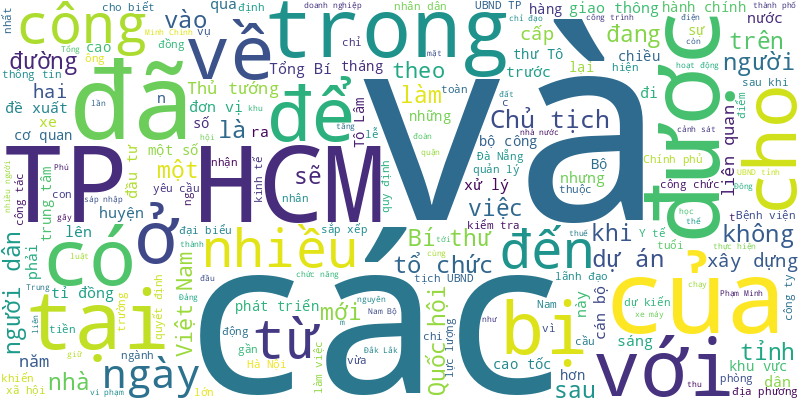
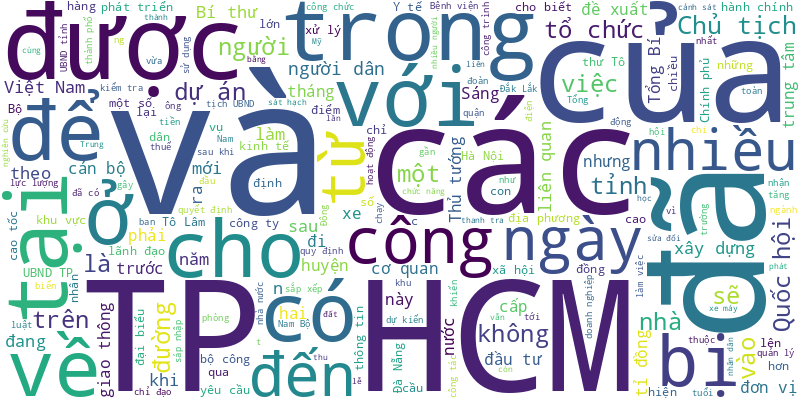
🍀 = 90%

diff --git a/README.md b/README.md
@@ -1,6 +1,18 @@
 # Tuoi Tre RSS 
 
 ## Giáo dục 
+- Trường đại học Công nghiệp TP.HCM vừa công bố thông tin tuyển sinh đại học hệ chính quy năm 2025, trong đó lần đầu áp dụng phương thức xét tuyển mới.
+- Tỉnh Bạc Liêu tổ chức kỳ thi tuyển sinh vào lớp 10 năm học 2025-2026 sớm nhất cả nước, từ ngày 22 đến 24-5-2025. Vĩnh Long là nơi duy nhất tổ chức kỳ thi vào tháng 7-2025.
+- Với thông tư 29 về dạy thêm học thêm, nhà trường không thể tổ chức dạy các môn học văn hóa trong thời gian hè cho học sinh. Thay vào đó, nhiều trường đã lên kế hoạch hè bằng các hình thức hoạt động câu lạc bộ đa dạng, phong phú.
+- Đại học (ĐH) Duy Tân giảng dạy và huấn luyện bắt buộc các kỹ năng trí tuệ nhân tạo (AI - Artificial Intelligence) và kiến thức Khởi nghiệp cho tất cả các sinh viên bậc đại học kể từ khóa mới K-31 (năm học 2025-2026).
+- GS.TSKH Hoàng Xuân Phú đã được bầu là viện sĩ của Viện hàn lâm Khoa học châu Âu.
+- Trung tâm dạy nghề cho người khuyết tật xây dựng với mục tiêu đào tạo nghề, giúp học viên có nơi thực hành trồng trọt, chăn nuôi, nâng cao tay nghề để tạo ra thu nhập. Thế nhưng trung tâm hoàn thành đi vào sử dụng được 2 năm đã tạm dừng hoạt động.
+- Liên quan đến vụ một huyện ở Đồng Nai tổ chức ra Hà Giang "học tập kinh nghiệm chuyển đổi số giáo dục", trưa 20-5, huyện Vĩnh Cửu đã chỉ đạo tạm dừng đi.
+- UBND tỉnh Gia Lai yêu cầu chấn chỉnh đạo đức nhà giáo và tăng cường phòng chống xâm hại học đường, bảo vệ trẻ em sau một số vụ việc nổi cộm trong ngành giáo dục trên địa bàn.
+- Phòng Giáo dục và Đào tạo huyện Vĩnh Cửu, tỉnh Đồng Nai lên kế hoạch 5 ngày để lãnh đạo, chuyên viên, giáo viên bay ra tỉnh Hà Giang học tập kinh nghiệm chuyển đổi số.
+- Một dự án thay đổi phương pháp dạy giáo dục thể chất được Viện Khoa học giáo dục Việt Nam cho biết đã tác động đến hơn 21.000 học sinh.
+- Sở Giáo dục và Đào tạo tỉnh Tiền Giang không có chủ trương trên và yêu cầu các trường học khác trên địa bàn tỉnh tuyệt đối không được vận động, quyên góp tiền ngoài quy định.
+- Chiếc ghe tạm bợ của gia đình em Song Xuân không may bị chìm. Xuân chỉ kịp với lấy cặp da của mình, còn tất cả gạo, đồ đạc, sách vở đều chìm trong nước.
 - Đến đảo Sinh Tồn, nơi cách đất liền khoảng 200 hải lý, nhà văn Phương Huyền mang theo những cuốn sách thiếu nhi được yêu thích, trao tặng những cô cậu học trò tiểu học.
 - Đó là câu hỏi của nhiều phụ huynh khi năm học 2024-2025 sắp kết thúc và một mùa hè mở ra với những cô cậu học trò.
 - Sở Giáo dục và Đào tạo TP.HCM vừa có báo cáo về tình hình của Trung tâm ngoại ngữ Úc Châu và Úc Châu 1 gởi UBND TP.HCM.
@@ -992,21 +1004,59 @@ Trường đại học Văn Lang được QS xếp hạng top 51-100 thế giớ
 - Trẻ mầm non dưới 5 tuổi, học sinh THCS, THPT tại TP.HCM được miễn học phí năm học 2025-2026.
 - Câu chuyện về lời cảm ơn do chị Nguyễn Thị Thương, phụ huynh có con đang học lớp 9 ở TP.HCM kể 
  và phóng viên Tuổi Trẻ Online ghi lại.
-- Sáng 20-2, Bộ Quốc phòng tổ chức Hội nghị tổng kết công tác tuyển sinh quân sự năm 2024, phương hướng nhiệm vụ năm 2025.
-- Sinh viên một trường đại học trình báo bị nhóm 'công an dỏm vào trường đọc lệnh bắt', tuy nhiên bước đầu xác định không có sự việc trên.
-- Ban lãnh đạo hệ thống giáo dục Vinschool vừa vinh dự nhận Giải thưởng “Vietnam Team of the Year - Education” - Đội ngũ lãnh đạo xuất sắc nhất trong lĩnh vực giáo dục của Việt Nam tại lễ trao giải Asian Management Excellence Award 2025 vừa diễn ra.
-- Trưởng Phòng Giáo dục và Đào tạo TP Nha Trang cho biết đơn vị này đã có kết quả xử lý vụ cô giáo tiểu học 'tố' bị hai cha con lôi ra sân trường.
-- Bỏ tất cả thí sinh vào một rổ để xét tuyển từ cao xuống thấp, ngay cả thí sinh thủ khoa các kỳ thi đánh giá năng lực cũng có nguy cơ rớt đại học.
-- Giải pháp căn cơ vẫn phải là cải cách từ gốc: giảm tải chương trình học, đổi mới phương pháp giảng dạy...
-- Năm 2025, Học viện Hàng không Việt Nam sẽ phối hợp với các đối tác để đào tạo song bằng chuyên ngành quản lý khai thác bay và cấp bằng phi công.
-- Tổ chức The Dariu Foundation (Thụy Sĩ) tài trợ cho Đà Nẵng 420 máy tính xách tay, 40 robot cứu hỏa cho câu lạc bộ lập trình và 4 không gian sáng chế cho các trường.
-- Đại học Kinh tế TP.HCM vừa triển khai chương trình nghiên cứu sinh toàn thời gian, mang đến cơ hội học tập, nghiên cứu chuyên sâu với nhiều chính sách hỗ trợ toàn diện.
-- Ghi nhận thực tế cho thấy nhiều phụ huynh cho con học thêm để 'không thua con nhà người ta', người khác lo vì không có chỗ gửi con.
-- Năm học 2025-2026, TP.HCM sẽ tăng tỉ lệ học sinh vào học lớp 10 công lập.
-- Năm 2025, các trường đại học tại Cần Thơ mở thêm nhiều ngành đào đạo mới liên quan công nghệ như vi mạch bán dẫn, AI…
 ![Edu](Edu.png)
 ## Thời Sự 
-- Sau 3 tháng nhập ngũ, các chiến sĩ mới được kiểm tra bài 3 tiếng nổ, gồm bắn súng tiểu liên AK, ném lựu đạn, đánh thuốc nổ trên thao trường.
+- TP Nha Trang đề xuất đầu tư thêm cầu vượt đường sắt tại Mã Vòng trên cùng một đoạn đường sắt và chỉ cách nút giao cầu vượt Ngọc Hội hơn 1km, Sở Xây dựng Khánh Hòa đã có đề nghị xem xét để tránh lãng phí.
+- Dự luật sửa Luật Mặt trận Tổ quốc Việt Nam, Luật Công đoàn quy định cơ quan, đơn vị sự nghiệp công lập hưởng 100% lương từ ngân sách nhà nước không còn là đối tượng phải đóng công đoàn phí.
+- Chủ tịch UBND TP.HCM Nguyễn Văn Được đã đề xuất Thủ tướng cho phép TP.HCM được triển khai chuyển đổi số toàn diện, tiếp nhận và trả kết quả điện tử giấy phép kinh doanh vận tải và phù hiệu.
+- Với 100% đại biểu Quốc hội có mặt tán thành, Quốc hội đã thông qua nghị quyết về rút ngắn nhiệm kỳ Quốc hội khóa XV và HĐND các cấp nhiệm kỳ 2021 - 2026, ấn định ngày bầu cử khóa mới.
+- Tin tức đáng chú ý: Hôm nay Quốc hội ấn định ngày bầu cử; Người dân TP.HCM ăn quá mặn; Thêm một cổ phiếu bị buộc rời khỏi sàn chứng khoán...
+- Hôm nay 21-5, thời tiết Bắc Bộ và Trung Bộ nắng nóng đến nắng nóng gay gắt. Nam Bộ ngày nắng, chiều tối mưa dông.
+- Chuyến thăm Việt Nam đầu tiên trên cương vị Tổng thống Pháp của ông Macron sẽ diễn ra trong ba ngày, bắt đầu từ ngày 25-5 tới.
+- Sở Xây dựng vừa tham mưu UBND TP.HCM báo cáo Bộ Xây dựng về kế hoạch để đạt 100.000 căn nhà ở xã hội đến năm 2030.
+- Chiều tối 20-5, Thủ tướng Phạm Minh Chính - Trưởng Ban Chỉ đạo các công trình trọng điểm, dự án quan trọng quốc gia lĩnh vực đường sắt - đã chủ trì họp với các bộ, ngành, cơ quan.
+- Liên quan hai sản phẩm bị đình chỉ lưu hành do công ty của chồng Đoàn Di Băng phân phối, Thanh tra Sở Y tế Đồng Nai đã kiểm tra đột xuất nhà máy sản xuất sản phẩm này.
+- Cơ quan công an bắt tạm giam ông Phạm Chiến Thắng - chủ tịch hội đồng thành viên Công ty TNHH thương mại Pha Lê Quảng Nam - vì đã thuê giang hồ chém cổ đông.
+- Liên quan quảng cáo Nestlé Milo 'được thử nghiệm lâm sàng của Viện Dinh dưỡng quốc gia', Sở Y tế tỉnh Đồng Nai đã có báo cáo gửi Cục An toàn thực phẩm.
+- Cụ B. ở Hà Tĩnh sau khi mang tấm bạt ra đồng cho người thân để gặt lúa, trên đường trở về nhà bất ngờ bị sét đánh trúng tử vong.
+- Thanh tra xây dựng buông lỏng quản lý, tạo điều kiện cho dãy nhà 43 căn xây sai phép ở phường Thạnh Xuân (quận 12, TP.HCM) từ năm 2017 và hiện đứng trước nguy cơ bị tháo dỡ.
+- Sun PhuQuoc Airways được Thủ tướng Chính phủ chấp thuận chủ trương đầu tư. Vốn đầu tư 2.500 tỉ đồng, quy mô 31 máy bay.
+- Bộ Nông nghiệp và Môi trường đề xuất phân cấp 39 thẩm quyền của Chính phủ, Thủ tướng cho bộ và đề xuất phân cấp 86 thẩm quyền của bộ cho cấp tỉnh.
+- Liên quan vụ án tranh chấp tài sản ly hôn kỳ lạ tại Phú Yên, cơ quan thi hành án cho rằng cần xem xét hủy bản án phúc thẩm lần 2 để xét xử lại theo hướng tòa phải tuyên rõ các điều khoản để bản án có thể thi hành.
+- Thứ trưởng Bộ Công an Trần Quốc Tỏ đề nghị nghiên cứu làm rõ hơn để khi vận dụng, tiến hành quy định, tránh suy diễn công an cấp xã cũng là một cấp điều tra.
+- Chiều 20-5, Quốc hội thảo luận tại tổ về dự thảo Luật Các tổ chức tín dụng (sửa đổi), đại biểu băn khoăn với quy định về các khoản vay đặc biệt.
+- Đây là công trình khởi đầu mạng lưới 10 đường trục chính tốc độ nhanh, giúp người dân rút ngắn thời gian đi từ trung tâm ra vành đai, cao tốc.
+- Việc đưa ra chế tài mạnh như cho thôi việc nếu không dựa trên hệ thống đánh giá KPI công bằng, minh bạch sẽ dễ phát sinh khiếu kiện, phản ứng ngược từ công chức.
+- Nhiều đại biểu Quốc hội đề nghị cân nhắc bỏ tội tử hình với các tội vận chuyển trái phép ma túy, làm thuốc giả, tham ô, hối lộ.
+- Liên quan sản phẩm công ty của chồng Đoàn Di Băng bị đình chỉ lưu hành, Sở Y tế Đồng Nai đã giao Thanh tra sở kiểm tra Công ty TNHH thương mại dịch vụ VB Group và Công ty cổ phần Nhà máy y tế EBC Đồng Nai.
+- Tròn 1 thập kỷ triển khai, tuyến đường trục chính nối quốc lộ 24C vào khu công nghiệp phía đông Dung Quất (huyện Bình Sơn, Quảng Ngãi) vẫn dang dở. 63 tỉ đồng đổi lại cỏ dại um tùm, cây cầu xây nửa vời đứng trơ trọi.
+- Cô gái trẻ ở Vĩnh Long bị xe khách Phương Trang cán tử vong trên quốc lộ 54, sau khi nạn nhân ngã ra đường vì thấy xe máy khác chạy ngược chiều.
+- Một trưởng ban quản trị chung cư ở Đà Nẵng vừa bị khởi tố để điều tra về tội môi giới hối lộ.
+- Vụ xé thẻ máy bay của khách Đài Loan hôm 13-5, địa phương và doanh nghiệp làm du lịch ở Phú Quốc cho rằng một số ít người còn thiếu sót, nhưng cũng không thể phủ nhận đảo ngọc nỗ lực, trở thành điểm đến hấp dẫn, khách quốc tế hài lòng.
+- Trung tâm dạy nghề cho người khuyết tật xây dựng với mục tiêu đào tạo nghề, giúp học viên có nơi thực hành trồng trọt, chăn nuôi, nâng cao tay nghề để tạo ra thu nhập. Thế nhưng trung tâm hoàn thành đi vào sử dụng được 2 năm đã tạm dừng hoạt động.
+- Do ảnh hưởng rãnh áp thấp nên thời tiết TP.HCM đang chuyển mưa dông, đề phòng gió giật mạnh.
+- Người được hưởng chính sách đã có nhà ở (đứng tên riêng) nhưng nhà đó cách nơi làm việc hơn 30km vẫn được mua, thuê mua nhà ở xã hội.
+- Liên quan đến vụ một huyện ở Đồng Nai tổ chức ra Hà Giang "học tập kinh nghiệm chuyển đổi số giáo dục", trưa 20-5, huyện Vĩnh Cửu đã chỉ đạo tạm dừng đi.
+- Nam shipper bị người đàn ông hành hung trước một chung cư ở TP Thủ Đức, trước đó có mâu thuẫn liên quan tiền cước.
+- Xe tải có cần cầu chở cột bê tông qua cầu sắt, do tải trọng quá nặng nên khi đi đến giữa, cây cầu bị rung lắc và sụp xuống sông.
+- Ngày 20-5, thông tin từ UBND phường 15 (quận Tân Bình) cho biết đang triển khai phát quang tuyến kênh Tân Trụ và Hy Vọng. Trong đó kênh Tân Trụ dài khoảng 1,15km, kênh Hy Vọng dài khoảng 1,25km.
+- Sau nhiều năm 'có cũng như không' khi nút giao Trì Bình nối Khu kinh tế Dung Quất với cao tốc Đà Nẵng - Quảng Ngãi dang dở. Đến nay nhà thầu đang tái khởi động, thi công hoàn thành nút giao quan trọng này.
+- 4 công ty gồm 3 công ty trong khu công nghiệp bị Đà Nẵng xử phạt số tiền 1 tỉ đồng vì vi phạm các quy định về môi trường.
+- Một ngân hàng và công an ở Vũng Tàu kịp thời phát hiện, kéo dài thời gian để ngăn chặn kịp một cụ ông 71 tuổi chuẩn bị chuyển gần 7 tỉ đồng cho nhóm lừa đảo qua điện thoại.
+- Tỉnh ủy viên, ủy viên Ban Thường vụ Tỉnh ủy của tỉnh Lâm Đồng sẽ giữ chức bí thư Đảng ủy xã, phường ở những địa bàn trọng điểm, chiến lược sau sắp xếp bộ máy.
+- Con trai và con dâu của Tổng thống Mỹ Donald Trump cùng lãnh đạo của Tập đoàn Trump Organization sẽ đến Việt Nam và có chuyến thăm TP.HCM.
+- Phòng Giáo dục và Đào tạo huyện Vĩnh Cửu, tỉnh Đồng Nai lên kế hoạch 5 ngày để lãnh đạo, chuyên viên, giáo viên bay ra tỉnh Hà Giang học tập kinh nghiệm chuyển đổi số.
+- Theo báo cáo kiểm tra ban đầu, nguyên nhân dẫn đến hiện tượng nước chảy ở khoang hành khách là do lỗi hệ thống điều khiển điều hòa không khí của đoàn tàu.
+- Sáng 20-5, Phòng cảnh sát giao thông Công an TP.HCM tổ chức sát hạch cho gần 300 người tại Trung tâm Đào tạo và sát hạch lái xe Hoàng Gia (huyện Bình Chánh, TP.HCM).
+- Mạng xã hội xuất hiện video đoàn tàu metro Cát Linh - Hà Đông bị dột nước, người dân ngồi trong toa tàu phải bật ô lên che. Lãnh đạo metro Hà Nội nói gì về sự cố này?
+- Nâng thời hạn bảo hành công trình xây dựng sử dụng vốn ngân sách sẽ tăng cường trách nhiệm trong thi công, hạn chế sụt lún và tiết kiệm chi phí duy tu, sửa chữa hằng năm.
+- UBND tỉnh Đắk Lắk yêu cầu để tránh chảy máu chất xám sẽ không giải quyết nghỉ hưu trước tuổi, thôi việc đối với cán bộ có năng lực nổi trội trong giai đoạn sắp xếp bộ máy hành chính từ ngày 1-7 tới.
+- Sáng 20-5, Thống đốc Ngân hàng Nhà nước Việt Nam Nguyễn Thị Hồng trình Quốc hội dự án Luật sửa đổi, bổ sung một số điều của Luật Các tổ chức tín dụng.
+- 76 hài cốt liệt sĩ quân tình nguyện và chuyên gia Việt Nam hy sinh ở Lào được tìm kiếm, cất bốc trong mùa khô 2024-2025 đưa về nước an táng.
+- TP Huế nhận định việc triển khai các chỉ đạo của lãnh đạo thành phố trước đó về quản lý hoạt động văn hóa, âm thanh di động, karaoke loa kẹo kéo… trên địa bàn chưa đạt hiệu quả.
+- Vị trí điểm đầu của cầu Tứ Liên đặt tại nút giao với đường Nghi Tàm, quận Tây Hồ, điểm cuối tại nút giao với trục TC13, huyện Đông Anh. Tổng chiều dài tuyến khoảng 3km.
+- Thông tin từ Bộ Công Thương, từ ngày 19 đến 22-5 tại Mỹ, đoàn đàm phán của Việt Nam do Bộ trưởng Bộ Công Thương, Trưởng đoàn đàm phán Chính phủ Nguyễn Hồng Diên dẫn đầu đã bắt đầu các phiên đàm phán với phía Mỹ.
+- Sau 3 tháng nhập ngũ, các chiến sĩ mới được kiểm tra bài '3 tiếng nổ', gồm bắn súng tiểu liên AK, ném lựu đạn, đánh thuốc nổ trên thao trường.
 - Đề xuất tăng mức phạt tối đa vi phạm giao thông từ 75 triệu đồng lên 150 - 200 triệu đồng của một đại biểu Quốc hội đang nhận được nhiều ý kiến. Từ đây đặt ra câu hỏi: Xử phạt vi phạm giao thông thế nào cho hợp lý?
 - Ở Quảng Nam, nguồn cung cát xây dựng đang rất khan hiếm do nhiều mỏ cát trên các con sông lớn hết hạn, dừng hoạt động hoặc sắp hết hạn khai thác theo giấy phép.
 - Trưởng hoặc phó trưởng công an xã được thủ trưởng cơ quan cảnh sát điều tra, công an cấp tỉnh phân công khởi tố, điều tra vụ án hình sự về tội ít nghiêm trọng, nghiêm trọng, có mức cao nhất của khung hình phạt đến 7 năm tù.
@@ -1019,7 +1069,7 @@ Trường đại học Văn Lang được QS xếp hạng top 51-100 thế giớ
 - Hôm nay 20-5, thời tiết Nam Bộ tăng mưa. Bắc Bộ mưa rào, Trung Bộ lại nắng nóng gay gắt.
 - Nhiều chương trình văn hóa, nghệ thuật, thể thao từ Lễ hội Làng Sen toàn quốc dịp kỷ niệm 135 năm Ngày sinh Chủ tịch Hồ Chí Minh để lại ấn tượng sâu sắc.
 - Sở Giáo dục và Đào tạo TP.HCM vừa có báo cáo về tình hình của Trung tâm ngoại ngữ Úc Châu và Úc Châu 1 gởi UBND TP.HCM.
-- Một phó trưởng phòng của Văn phòng Tỉnh ủy Quảng Nam nghỉ hưu trước tuổi gần 7 năm nhận hơn 3,2 tỉ đồng tiền hỗ trợ.
+- Một phó trưởng phòng của Văn phòng Tỉnh ủy Quảng Nam nghỉ hưu trước tuổi gần 7 năm.
 - Anh H.D. - cán bộ Công an cửa khẩu ở cảng hàng không quốc tế Phú Quốc (sân bay Phú Quốc) - đã bị tạm đình chỉ công tác.
 - Bộ Nội vụ đang ưu tiên và tập trung cao độ trình Chính phủ ban hành các nghị định về phân định thẩm quyền nhiệm vụ, quyền hạn cho chính quyền địa phương hai cấp và phân cấp, phân quyền.
 - Thay vì khái niệm lãnh thổ (trước đây là tỉnh, huyện, xã), việc tổ chức chức năng, thẩm quyền của viện kiểm sát, tòa án theo mô hình chính quyền cơ sở 2 cấp sẽ theo 'địa hạt tư pháp'.
@@ -1956,58 +2006,9 @@ Trường đại học Văn Lang được QS xếp hạng top 51-100 thế giớ
 - Liên quan chồng lấn ranh giới giữa hai tỉnh Quảng Nam và Kon Tum, Bộ Nội vụ vừa có hướng dẫn hai tỉnh về căn cứ lập ranh giới hành chính.
 - Lo ngại ùn tắc trong ngày nghỉ cuối cùng, nhiều người quyết định quay trở lại Hà Nội sớm một ngày. Ngày 3-5, dự kiến tuyến cao tốc cửa ngõ phía nam Hà Nội đón khoảng 120.000 lượt xe.
 - Ủy ban Thường vụ Quốc hội kiến nghị sửa đổi, bổ sung điều 110 Hiến pháp 2013 theo hướng chỉ quy định khái quát hai cấp chính quyền địa phương.
-- Thuyền cổ được phát hiện gần thành Luy Lâu, Bắc Ninh có kỹ thuật đóng thuyền độc đáo.
-- Báo cáo của Chánh án Tòa án nhân dân tối cao Lê Minh Trí gửi Quốc hội nêu trong kỳ báo cáo 6 tháng có 20 người bị kỷ luật hành chính, 7 cán bộ tòa án bị xử lý hình sự.
-- Bộ Chính trị, Ban Bí thư họp, cho ý kiến về tình hình triển khai thực hiện sắp xếp tổ chức bộ máy và đơn vị hành chính các cấp.
-- Sáng 3-5, Thủ tướng Chính phủ Phạm Minh Chính dẫn đầu đoàn công tác của Chính phủ đến dâng hương, viếng các anh hùng liệt sĩ tại Nghĩa trang Hàng Dương, Côn Đảo.
-- Viện Kiểm sát nhân dân đã hủy quyết định không khởi tố vụ án và yêu cầu Cơ quan cảnh sát điều tra Công an tỉnh Vĩnh Long thụ lý.
-- Bộ Ngoại giao Việt Nam đã giao thiệp và trao công hàm phản đối các nước xâm phạm chủ quyền Việt Nam tại đá Hoài Ân và các thực thể khác tại quần đảo Trường Sa.
-- Sau lễ diễu binh, diễu hành ngày 30-4 tại TP.HCM, hình ảnh người dân cùng hô hào nhau dọn rác sạch thật đẹp và cần được duy trì trong các dịp lễ, hội sắp tới.
-- 160 tỉ USD cho sáu "siêu dự án" có chiều dài gần 3.000km, mạng lưới giao thông đường sắt nước ta đang được triển khai.
-- Hai nền kinh tế hàng đầu thế giới dường như đang chơi trò "ai nhịn lâu hơn" trong lúc vẫn dò tìm lối ra cho vấn đề thuế quan.
-- Đường Huỳnh Tấn Phát (từ quận 7 đến huyện Nhà Bè, TP.HCM) bị hư hỏng liên tục, mặt đường trồi lún khiến việc đi lại của người dân gặp khó khăn, tai nạn giao thông.
-- Viện trưởng Viện Kiểm sát nhân dân tối cao yêu cầu viện trưởng Viện Kiểm sát nhân dân tỉnh Vĩnh Long hủy bỏ quyết định không khởi tố vụ án hình sự số 73/QĐ-ĐTTH ngày 23-1-2025 của Cơ quan cảnh sát điều tra Công an huyện Trà Ôn, tỉnh Vĩnh Long.
-- Sau khi có chủ trương sắp xếp Hội An thành ba phường và một xã, nguyên bí thư Thành ủy Hội An cho rằng cần xem xét lại tính hợp lý của quyết định này.
-- Bảo hiểm xã hội Việt Nam cho biết người nghỉ hưu trước tuổi không bị trừ tỉ lệ lương hưu, chứ không phải hưởng 75% tối đa.
-- Bộ trưởng Đào Hồng Lan nêu việc thực hiện lời hứa tăng cường quản lý, thanh tra, kiểm tra, hậu kiểm trong sản xuất, kinh doanh dược phẩm, mỹ phẩm, thực phẩm chức năng.
-- UBND tỉnh Đắk Lắk yêu cầu truy thu hơn 125 tỉ đồng chi sai phụ cấp ưu đãi cho giáo viên và xử lý trách nhiệm các tập thể, cá nhân liên quan.
-- Tin tức đáng chú ý: Đà Nẵng rực rỡ cờ hoa đón chào đoàn tàu chở các chiến sĩ diễu binh trở về; Tri ân, tưởng niệm các anh hùng liệt sĩ và đồng bào yêu nước tại Côn Đảo...
-- Thủ tướng Phạm Minh Chính vừa ký công điện số 55 ngày 2-5 yêu cầu các bộ ngành, địa phương tăng cường phối hợp, xử lý nghiêm các tổ chức, cá nhân liên quan đến sản xuất, buôn bán thuốc chữa bệnh giả, sữa giả và thực phẩm bảo vệ sức khỏe giả.
-- Đó là tình cảm, lời gửi gắm của những bạn trẻ, người dân Đồng Nai đến toàn thể cán bộ, chiến sĩ các khối diễu binh, diễu hành trước giờ lên tàu ngược ra miền Trung, miền Bắc.
-- Nhiều ngân hàng tiếp tục thực hiện tái cấu trúc, tinh gọn bộ máy, cắt giảm nhân sự trong quý 1 năm nay. Có nơi số nhân sự bị cắt giảm lên tới hơn 1.600 người.
-- Sau vụ mô tô nước mất lái lao vào bờ, tông một bé gái thiệt mạng (xã Nhơn Hải, TP Quy Nhơn, Bình Định),  UBND TP Quy Nhơn có văn bản tạm dừng hoạt động mô tô nước, ca nô không đủ điều kiện trên địa bàn kể từ ngày 2-5.
-- Để ứng phó với chính sách thuế mới, nhiều doanh nghiệp Việt tận dụng thời gian gia hạn 90 ngày của Mỹ để đẩy mạnh xuất khẩu.
-- Tại thời điểm cuối quý 1-2025, Petrolimex có gần 25.000 tỉ đồng gửi ngân hàng lấy lãi, 3.200 tỉ đồng đang được đầu tư vào trái phiếu…
-- Trung tâm Y tế huyện Thanh Ba (Phú Thọ) khen thưởng kíp cấp cứu đã cứu sống bệnh nhi 12 tuổi bị sốc phản vệ khi tiêm kháng sinh.
-- 10 ngư dân của tàu cá Bà Rịa - Vũng Tàu được các ngư dân khác kịp thời cứu vớt trên vùng biển Côn Đảo sau khi tàu cá họ bị tàu hàng đâm chìm.
-- Trong ngày nghỉ lễ thứ 3, cảnh sát giao thông xử lý 2.107 trường hợp vi phạm nồng độ cồn, 2.234 trường hợp vi phạm về tốc độ…
-- Hai ngày qua Phú Quốc liên tục xuất hiện những cơn mưa. Khách du lịch trong và ngoài nước che dù, mặc áo mưa đi chơi lễ 30-4 và 1-5 ở hòn đảo xinh đẹp này cùng với gia đình, bạn bè.
-- Lãnh đạo UBND phường Võ Thị Sáu cho biết phường vừa gửi tờ trình UBND quận 3 ban hành quyết định xử phạt bãi giữ xe 'hét giá' 100.000 đồng/lượt giữ xe máy.
-- Sau gần 2 thập kỷ bị lãng quên, cây ca cao đang 'lội ngược dòng' khi giá thị trường tăng vọt chưa từng có, nông dân phấn khởi tái đầu tư.
-- Đại biện lâm thời Đại sứ quán Myanmar tại Việt Nam, ông Soe Ko Ko, cảm kích tấm lòng ủng hộ của bạn đọc báo Tuổi Trẻ sau trận động đất kinh hoàng tại Myanmar và cho biết toàn bộ số tiền sẽ được chuyển về nước hỗ trợ các nạn nhân.
-- Sau gần hai ngày nỗ lực tìm kiếm, lực lượng chức năng và người dân đã tìm thấy bé gái 7 tuổi đi lạc trên núi từ ngày 30-4.
-- Từ  ngày 1-5-2025, giá dịch vụ quản lý vận hành chung cư tối thiểu 700 đồng và tối đa 16.500 đồng/m²/tháng, tùy thuộc từng loại nhà.
-- Mây dông đang gây mưa cho các quận, huyện ngoại thành và được dự báo mở rộng vào khu trung tâm TP.HCM.
-- Viện trưởng Viện Kiểm sát nhân dân Vĩnh Long đã căn cứ, lập luận vào đâu để bác đơn khiếu nại vụ xe tải cán tử vong nữ sinh ở Trà Ôn?
-- Chiều 1-5, Quảng Ngãi có 13 người tắm biển bị sóng cuốn, 8 người ở bãi biển Mỹ Khê được cứu; 5 người đuối nước ở vùng biển vắng vẻ khiến 4 người mất tích.
-- Dự Luật Tổ chức chính quyền địa phương (sửa đổi) đề xuất Hà Nội và TP.HCM được bầu 125 đại biểu HĐND khi thực hiện chính quyền địa phương 2 cấp.
-- Do vụ việc xảy ra đã lâu, không có thương tích để giám định nên không đủ yếu tố xử lý hình sự. Công an đang củng cố hồ sơ, xem xét xử lý theo hướng vi phạm hành chính về hành vi đánh đập thành viên gia đình.
-- Phát hiện bé trai 8 tuổi bị sóng cuốn khi tắm biển Cửa Tùng, 6 người trên bờ đã lần lượt lao xuống tiếp sức nhau để cứu người.
-- Hôm nay 2-5, thời tiết Nam Bộ và các tỉnh Nam Trung Bộ giảm nắng, nhiều nơi mưa rào đến mưa to. Bắc Bộ giảm mưa, ngày nắng.
-- Sau khi hoàn thành xuất sắc nhiệm vụ, các khối diễu binh, diễu hành đầu tiên đã lên tàu trở ra miền Trung, miền Bắc trong niềm hân hoan của đông đảo người dân.
-- Chiều 1-5, tại vùng biển huyện Mộ Đức, Quảng Ngãi xảy ra liên tiếp 2 vụ đuối nước khiến 4 học sinh mất tích, lực lượng chức năng đang tích cực tìm kiếm.
-- Ban Chỉ đạo Trung ương về hoàn thiện thể chế, pháp luật do Tổng Bí thư Tô Lâm làm trưởng ban. Hai phó ban là Thủ tướng Phạm Minh Chính và Chủ tịch Quốc hội Trần Thanh Mẫn.
-- Lễ kỷ niệm 50 năm Ngày Giải phóng miền Nam, thống nhất đất nước (30-4-1975 - 30-4-2025) đã được tổ chức trọng thể và thành công tốt đẹp tại TP.HCM.
-- Du khách đến Phú Quốc chơi lễ 30-4 và 1-5 không chỉ tắm biển, ăn hải sản mà còn mê thích trải nghiệm du lịch sinh thái, coi đua heo, đánh golf và bắt vịt trên biển.
-- Ông Đặng Ngọc Dũng, nguyên ủy viên Ban Thường vụ Tỉnh ủy, nguyên trưởng Ban Tuyên giáo Tỉnh ủy Quảng Ngãi, nghỉ hưu trước tuổi 54 tháng.
-- Dịp lễ Ngày Giải phóng miền Nam, thống nhất đất nước và Ngày Quốc tế lao động năm nay có 98 phạm nhân ở các trại tạm giam và trại giam trong tỉnh Cà Mau được đặc xá về nhà.
-- Tổng thống Sri Lanka Anura Kumara Dissanayaka sẽ thăm cấp nhà nước Việt Nam và dự Đại lễ Phật đản Liên hợp quốc Vesak từ ngày 4 đến 6-5 tới.
-- Theo dõi lễ diễu binh sáng 30-4, nhiều người bày tỏ sự xúc động khi được nhìn thấy những khí tài do chính Việt Nam sản xuất.
-- 30 nhà khoa học của Nga và Việt Nam phối hợp khảo sát đa dạng sinh học và hóa sinh trên Biển Đông trên tàu Viện sĩ Oparin nổi tiếng.
-- Dự thảo sửa Luật Xử lý vi phạm hành chính đề xuất tăng mức phạt tiền tối đa lĩnh vực vi phạm giao thông đường bộ từ 75 triệu đồng lên 150 triệu đồng.
-- Các trường hợp cán bộ có đơn tự nguyện xin nghỉ việc phải thực hiện đánh giá, rà soát theo tiêu chí xác định đối tượng nghỉ theo quy định nghị định 178, 67.
 ![New](News.png)
 ## Nhịp sống số 
+- Đoạn video xúc động về cựu binh Thế chiến 2 hát tưởng nhớ người bạn gây sốt mạng xã hội Mỹ, nhưng đây thực chất lại chỉ là sản phẩm dàn dựng bằng công nghệ AI tinh vi.
 - Siêu máy tính đám mây chứa 1,8 triệu bộ xử lý lõi, có thể thực hiện 60.000 tỉ phép tính mỗi giây, cho phép đưa ra dự báo chi tiết trước tới 14 ngày.
 - Apple vừa công bố một loạt tính năng mới dành cho người dùng iPhone và iPad, tập trung hỗ trợ những người khiếm thị, khiếm thính hoặc có nhu cầu đặc biệt.
 - Tập đoàn Điện lực Việt Nam khẳng định trang fanpage có tên "Kênh việc làm EVN" với 6.000 lượt tài khoản theo dõi là giả mạo và sử dụng trái phép thương hiệu EVN.
@@ -3006,5 +3007,4 @@ Trường đại học Văn Lang được QS xếp hạng top 51-100 thế giớ
 - TTO - Sau khi phát hiện VPNFilter, các nhà nghiên cứu bảo mật tiếp tục phát hiện ra một mã độc khác, có tên là Prowli, đã xâm phạm hơn 40.000 máy chủ, modem và thiết bị IoT thuộc nhiều tổ chức trên toàn thế giới với mức độ nguy hiểm gấp nhiều lần.
 - TTO - Nhiều hãng thông tấn, báo chí đã đồng loạt gửi đơn yêu cầu lãnh đạo Facebook điều chỉnh lại chính sách quảng cáo khi công ty này xếp quảng cáo tin tức vào cùng loại quảng cáo chính trị.
 - TTO - Tòa Mỹ vừa tuyên phán quyết cho phép AT&amp;T mua tập đoàn truyền thông giải trí Time Warner với giá 85 tỉ USD, bất chấp phản đối của chính quyền tổng thống Donald Trump.
-- TTO - Chiếc toilet điện từ dành riêng cho mèo giá 225 USD này có khả năng phân tích mẫu phân và nước tiểu và “báo cáo” tình trạng sức khỏe của con vật tới chủ qua smartphone.
 ![life](Life.png)
